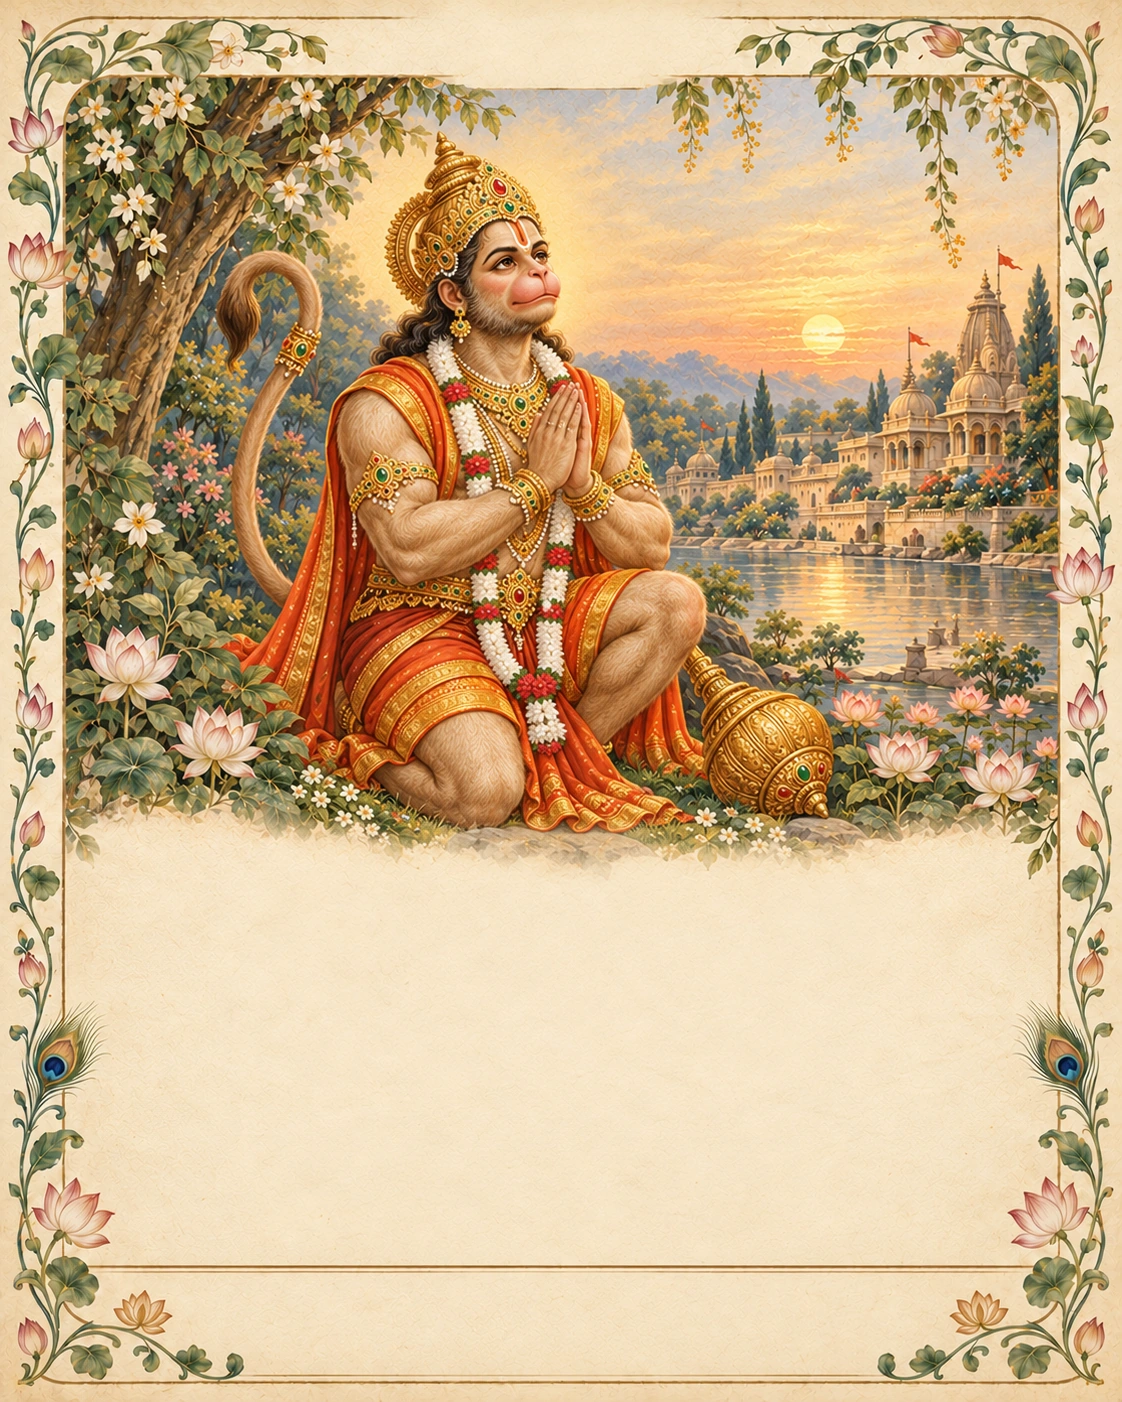
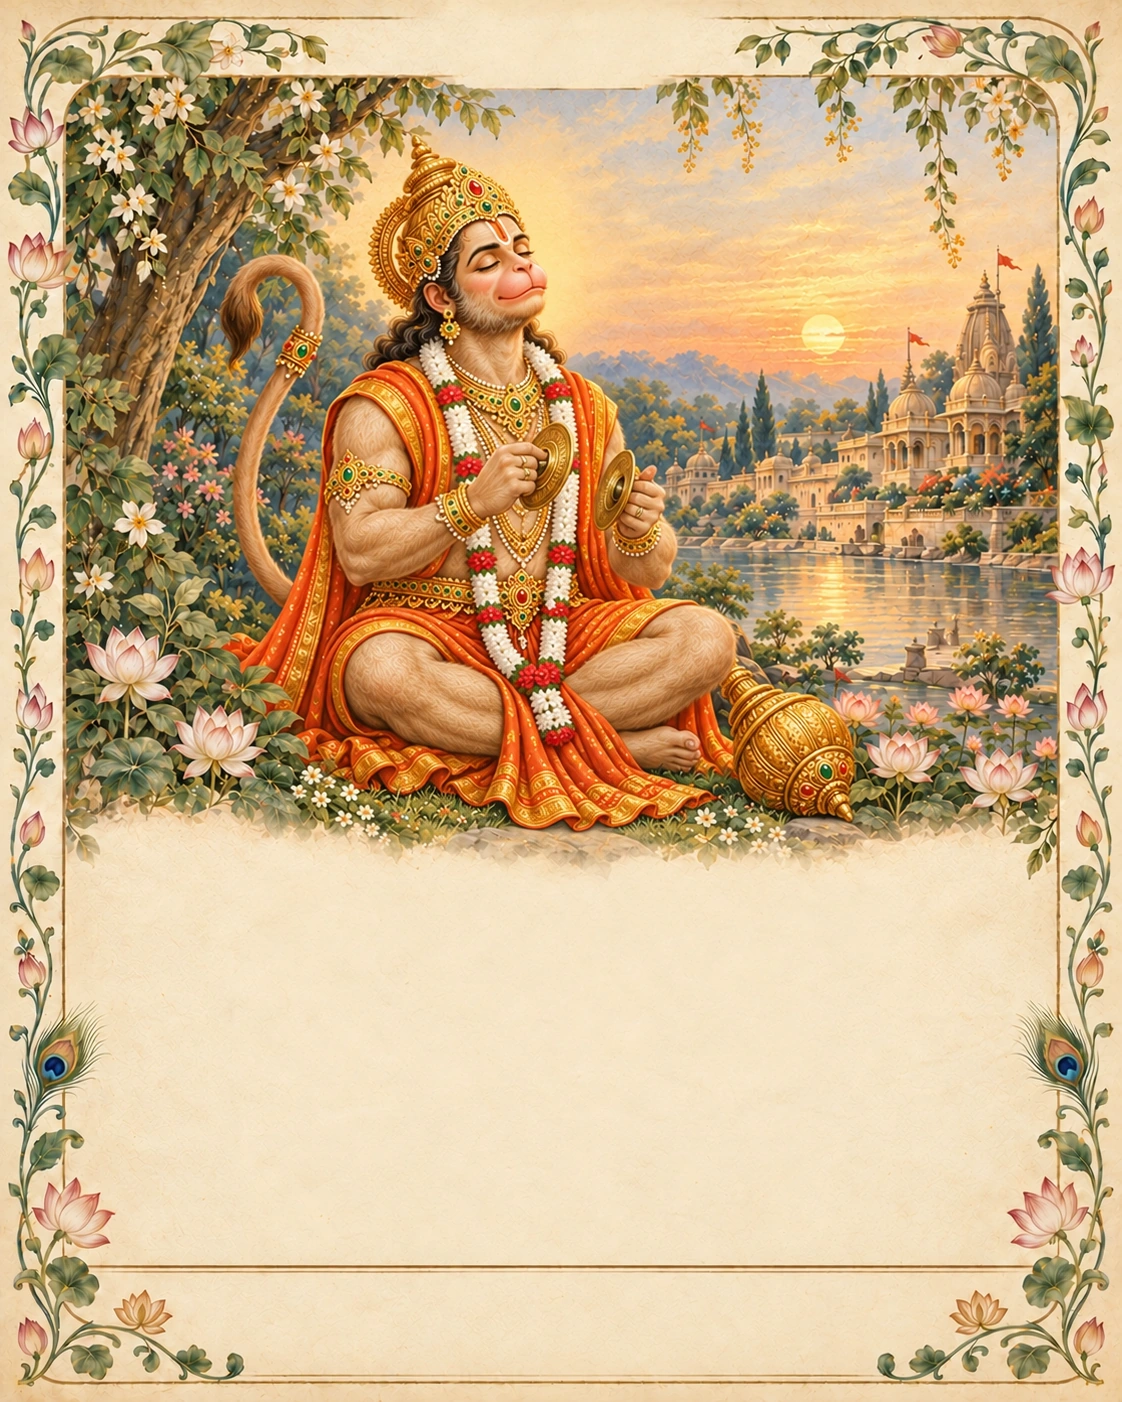
Revise Hanuman cards to blessing poses and manjira bhajan

diff --git a/mobile/src/data/__tests__/suvichar.jest.test.ts b/mobile/src/data/__tests__/suvichar.jest.test.ts
@@ -41,7 +41,7 @@ it('keeps exactly 42 complete unique source masters with matching provenance has
     expect(hash).toBe(a.sha256); hashes.add(hash); total += bytes.length;
     expect(a.heroFraction).toBe(suvicharHeroFraction(a.deity, a.frame));
     expect(a.width / a.height).toBeGreaterThan(.78); expect(a.width / a.height).toBeLessThan(.82);
-    expect(a.width).toBeGreaterThanOrEqual(1080); expect(a.prompt).toContain('Subject:');
+    expect(a.width).toBeGreaterThanOrEqual(1080); expect(a.prompt).toMatch(/Subject:|Edit target:/);
     expect(a.authoringPngSha256).toMatch(/^[a-f0-9]{64}$/);
   }
   expect(hashes.size).toBe(42); expect(total).toBeLessThan(30 * 1024 * 1024);

diff --git a/docs/content/suvichar/README.md b/docs/content/suvichar/README.md
@@ -29,6 +29,8 @@ The table below links every full-resolution frame. Each background has a blank m
 | खाटू श्याम जी | [मंदिर झरोखा](../../../mobile/assets/suvichar/khatu-shyam--mandir-jharokha.webp) | [पुष्प आँगन](../../../mobile/assets/suvichar/khatu-shyam--pushp-aangan.webp) | [भक्ति पत्र](../../../mobile/assets/suvichar/khatu-shyam--bhakti-patra.webp) |
 | तिरुपति बालाजी | [मंदिर झरोखा](../../../mobile/assets/suvichar/tirupati-balaji--mandir-jharokha.webp) | [पुष्प आँगन](../../../mobile/assets/suvichar/tirupati-balaji--pushp-aangan.webp) | [भक्ति पत्र](../../../mobile/assets/suvichar/tirupati-balaji--bhakti-patra.webp) |
 
+Hanuman's three backgrounds were revised on 23 October: मंदिर झरोखा and भक्ति पत्र show an open-palm blessing; पुष्प आँगन shows joyful bhajan with one pair of brass manjira. The frame count remains three, with distinct poses rather than three namaste compositions. Updated source hashes and edit prompts are in sources.json; publication and native inspection remain pending.
+
 ## Text directory and occasions
 
 The app ships an original opening reflection, 20 further authored daily reflections, and seven explicit wish choices: morning, Diwali, Holi, Ram Navami, Janmashtami, Mahashivratri and Navratri. It also supports a reader’s own message. None is presented as a scripture quotation. UI copy is authored in Hindi, English, Gujarati and Kannada; authored content uses the app’s existing contentByLang policy. Personal names/messages remain verbatim.
